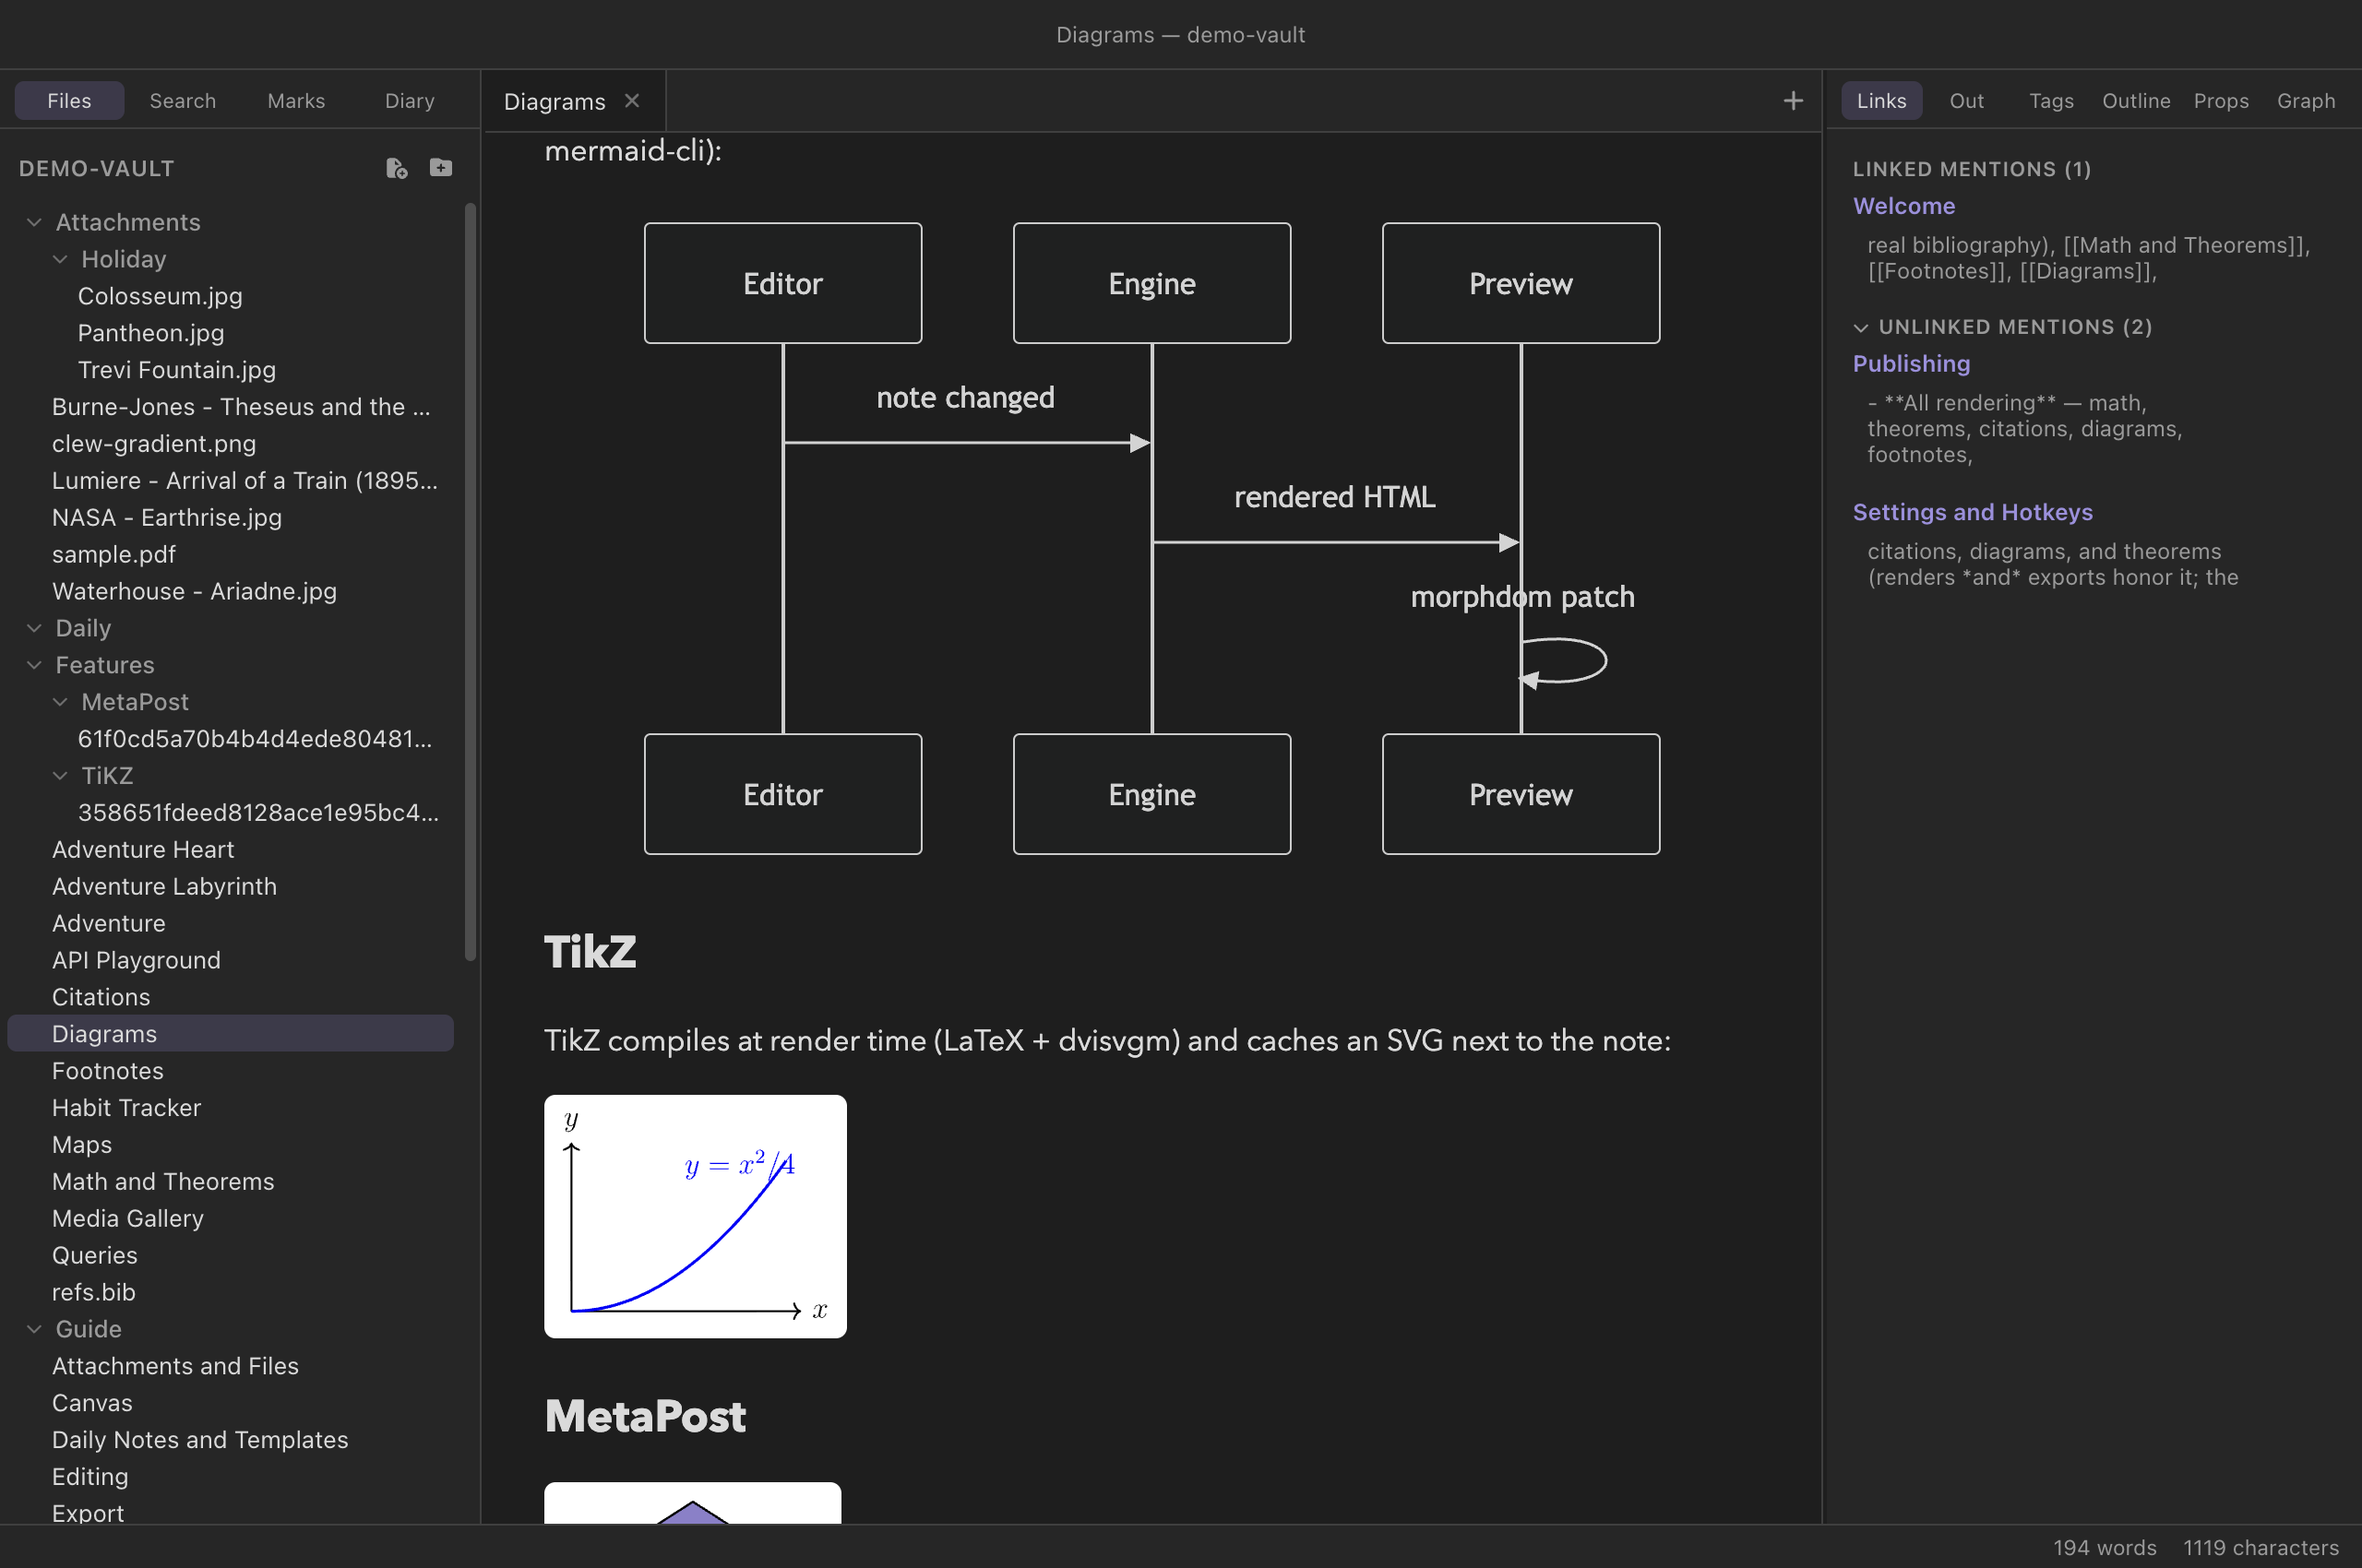
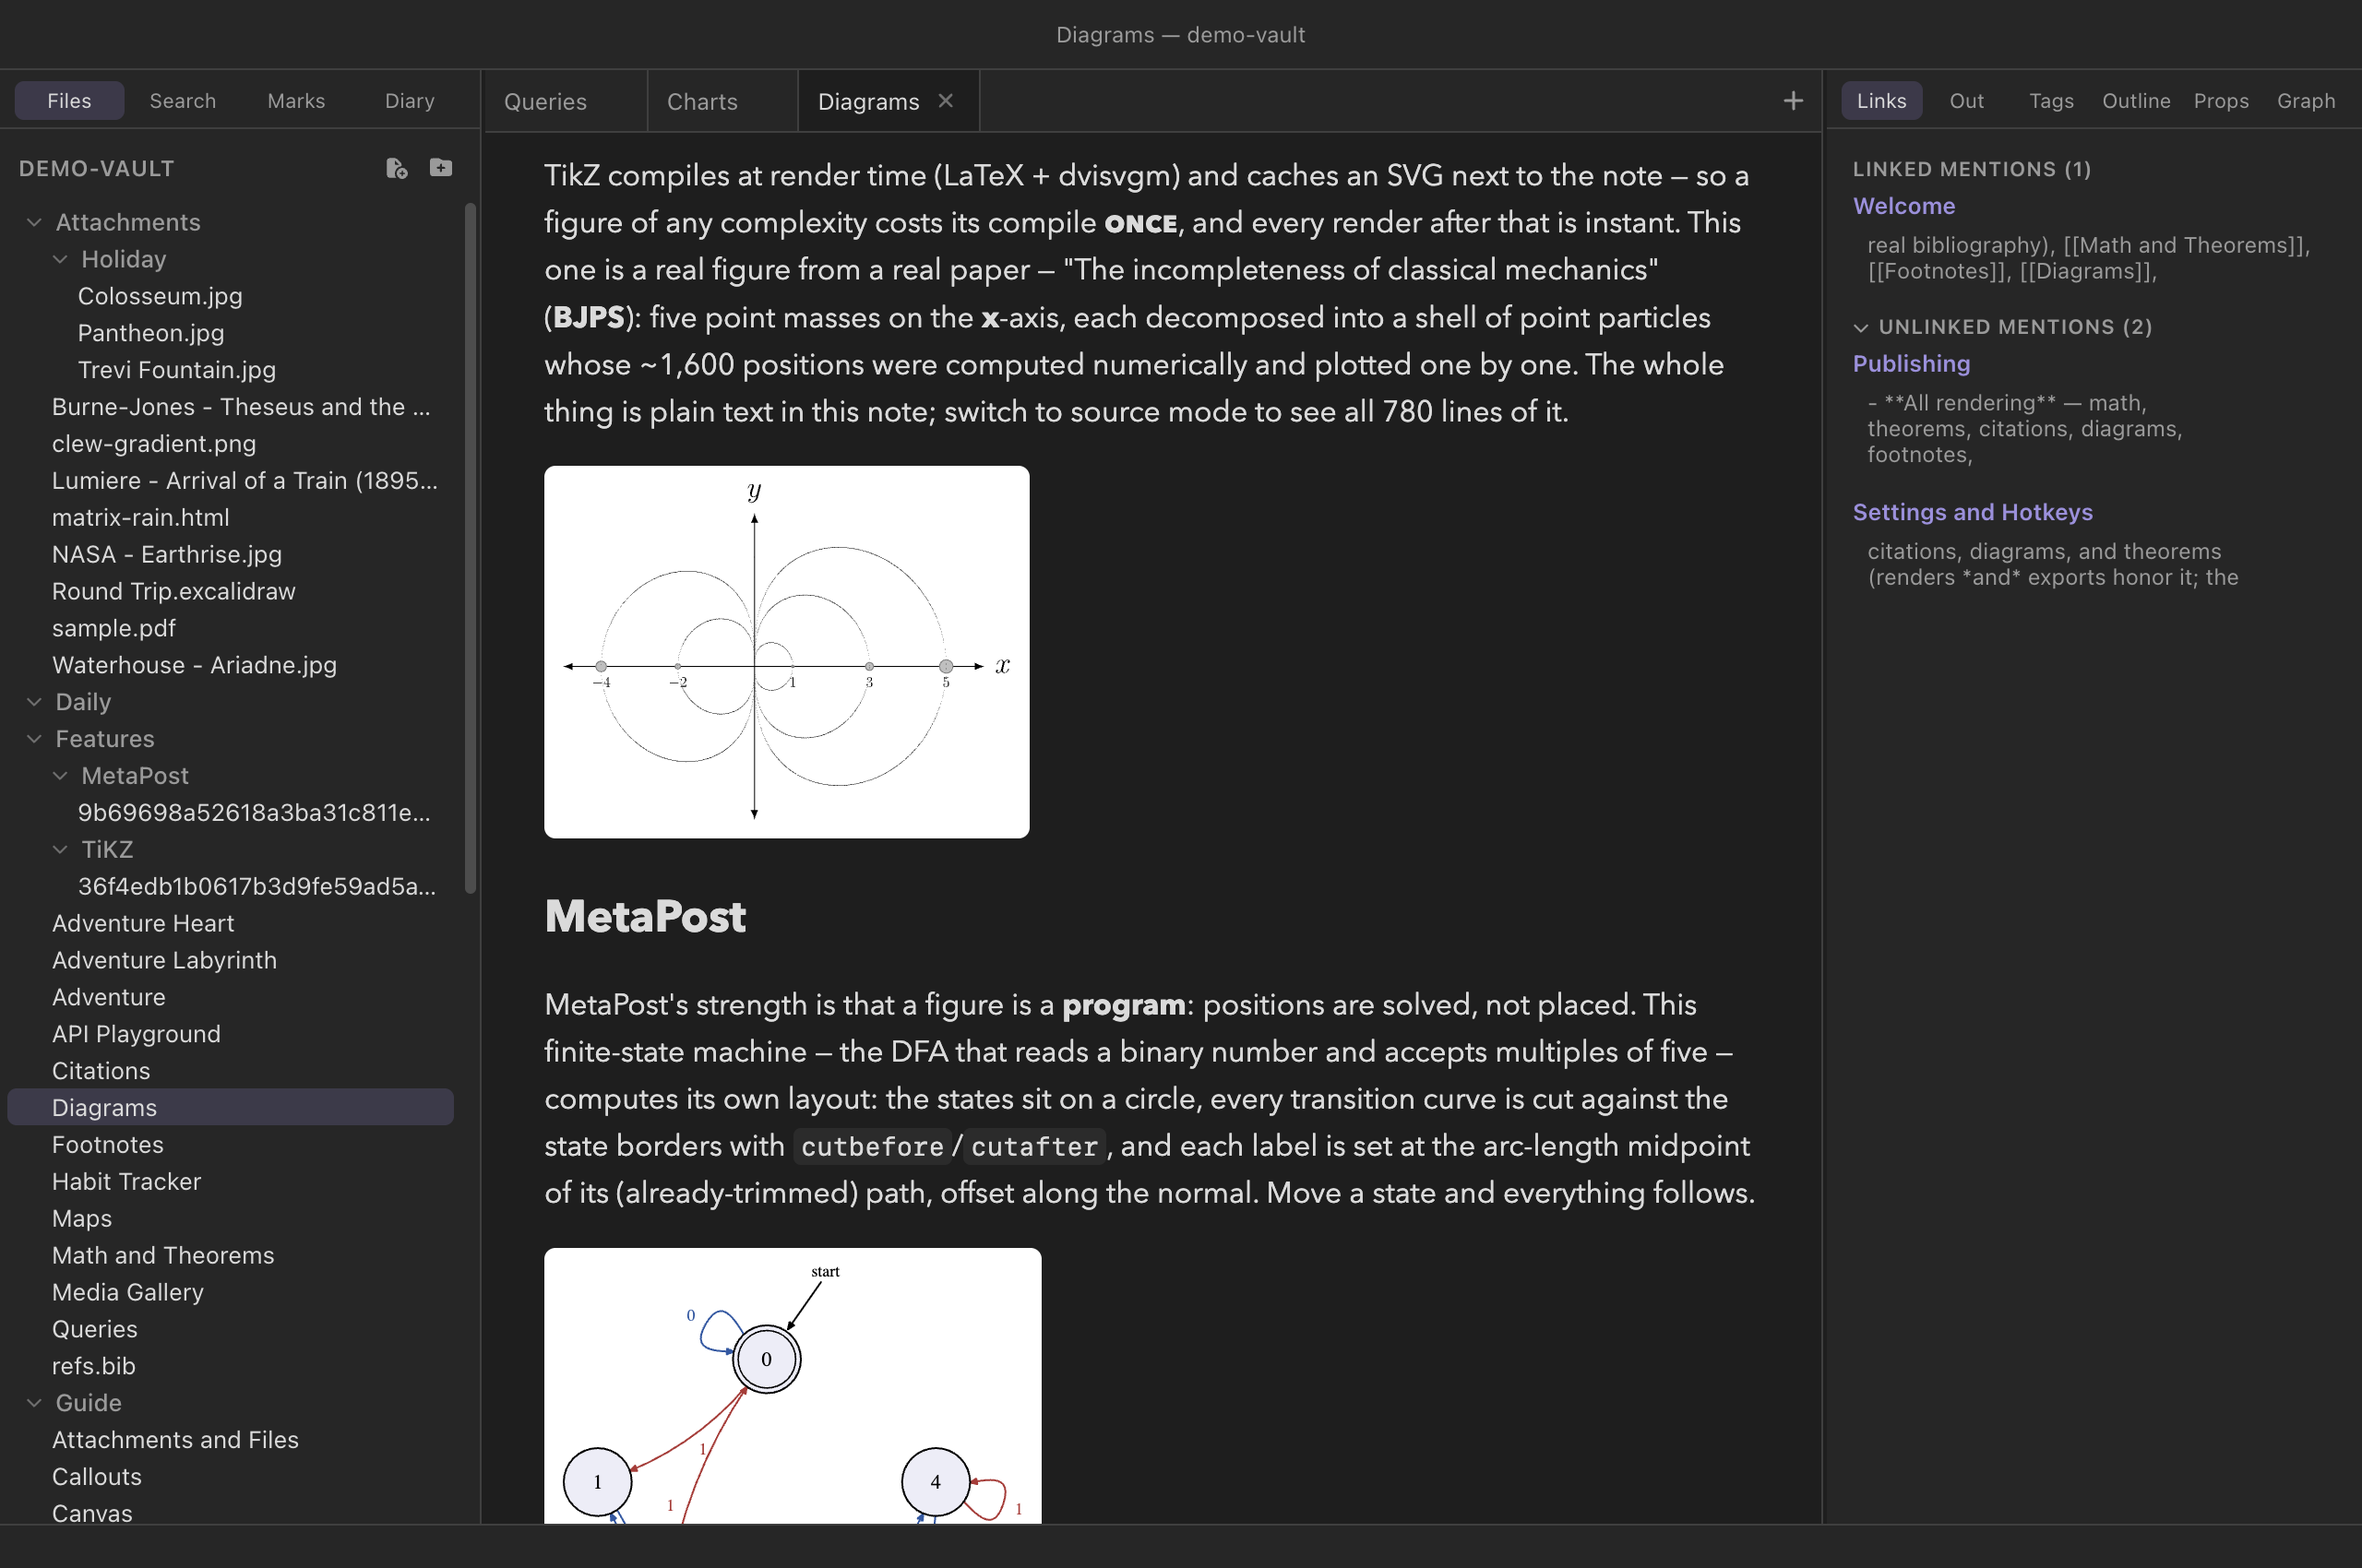
Manual: the Diagrams screenshot matches the new showpiece figures

diff --git a/site/manual/diagrams.html b/site/manual/diagrams.html
@@ -130,10 +130,12 @@ dark page.
 </p>
 
 <figure class="shot">
-	<img src="images/diagrams.png" alt="The Diagrams feature note in reading mode: a rendered mermaid sequence diagram and a compiled TikZ plot of a parabola">
-	<figcaption>The demo vault's Diagrams note: a mermaid sequence diagram
-	rendered client-side, and below it the TikZ figure compiled to SVG by
-	the local TeX toolchain and cached beside the note.</figcaption>
+	<img src="images/diagrams.png" alt="The Diagrams feature note in reading mode: a compiled TikZ figure of five particle shells from a physics paper, and below it a MetaPost finite-state machine">
+	<figcaption>The demo vault's Diagrams note: a TikZ figure from a real
+	physics paper — some 1,600 individually plotted particle positions —
+	and a MetaPost finite-state machine that computes its own layout, both
+	compiled to SVG by the local TeX toolchain and cached beside the
+	note.</figcaption>
 </figure>
 
 <h2 id="tikz">TikZ</h2>
